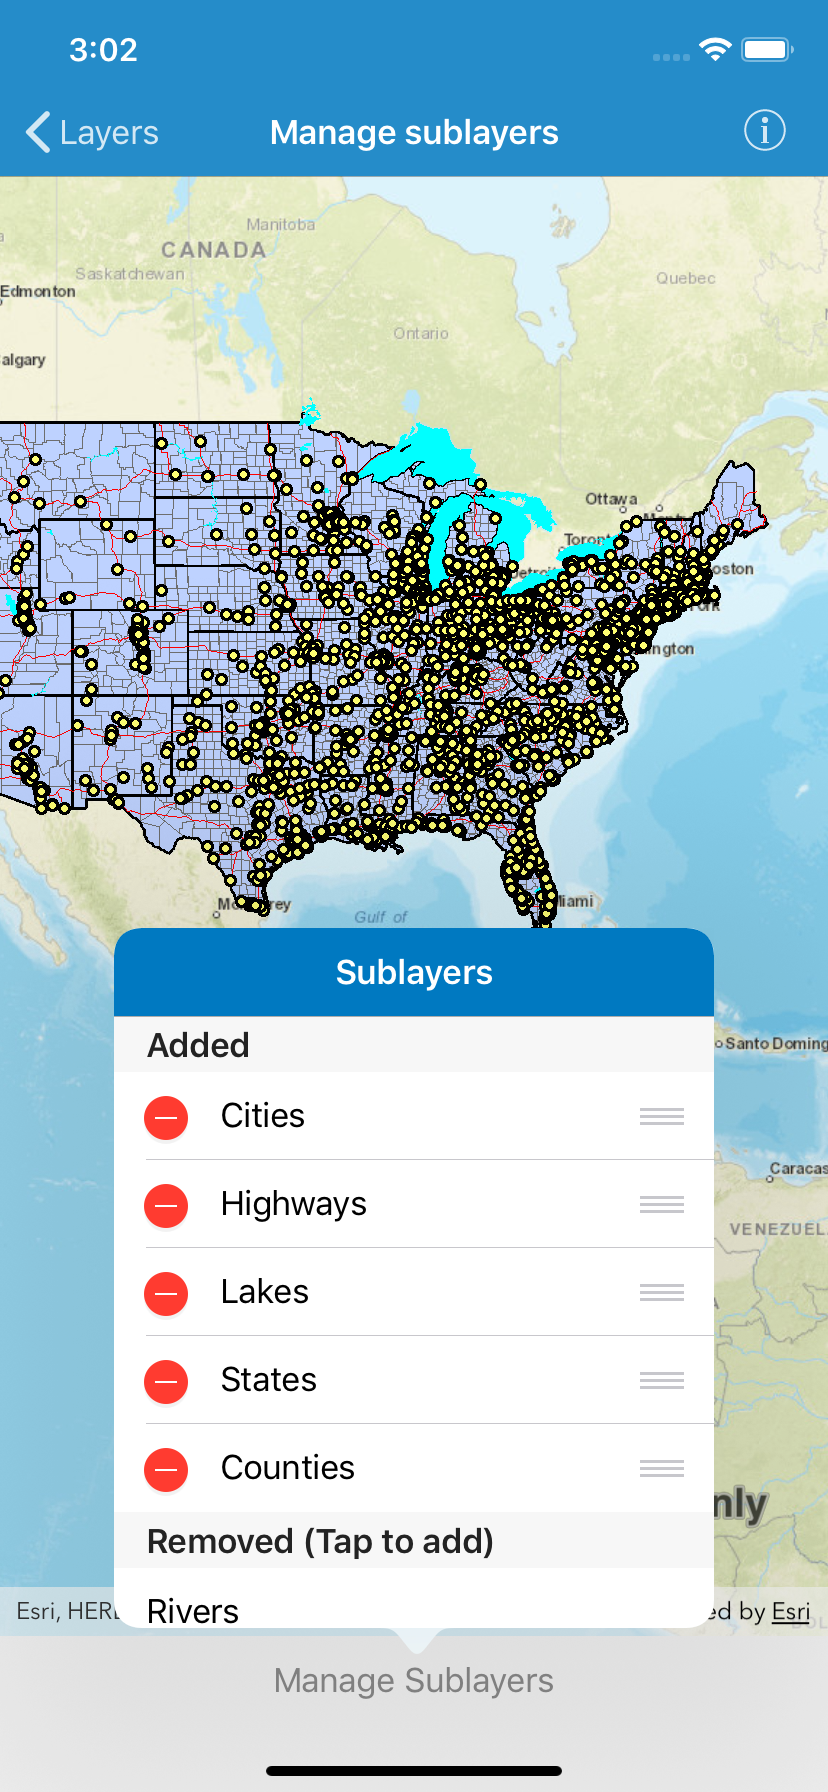
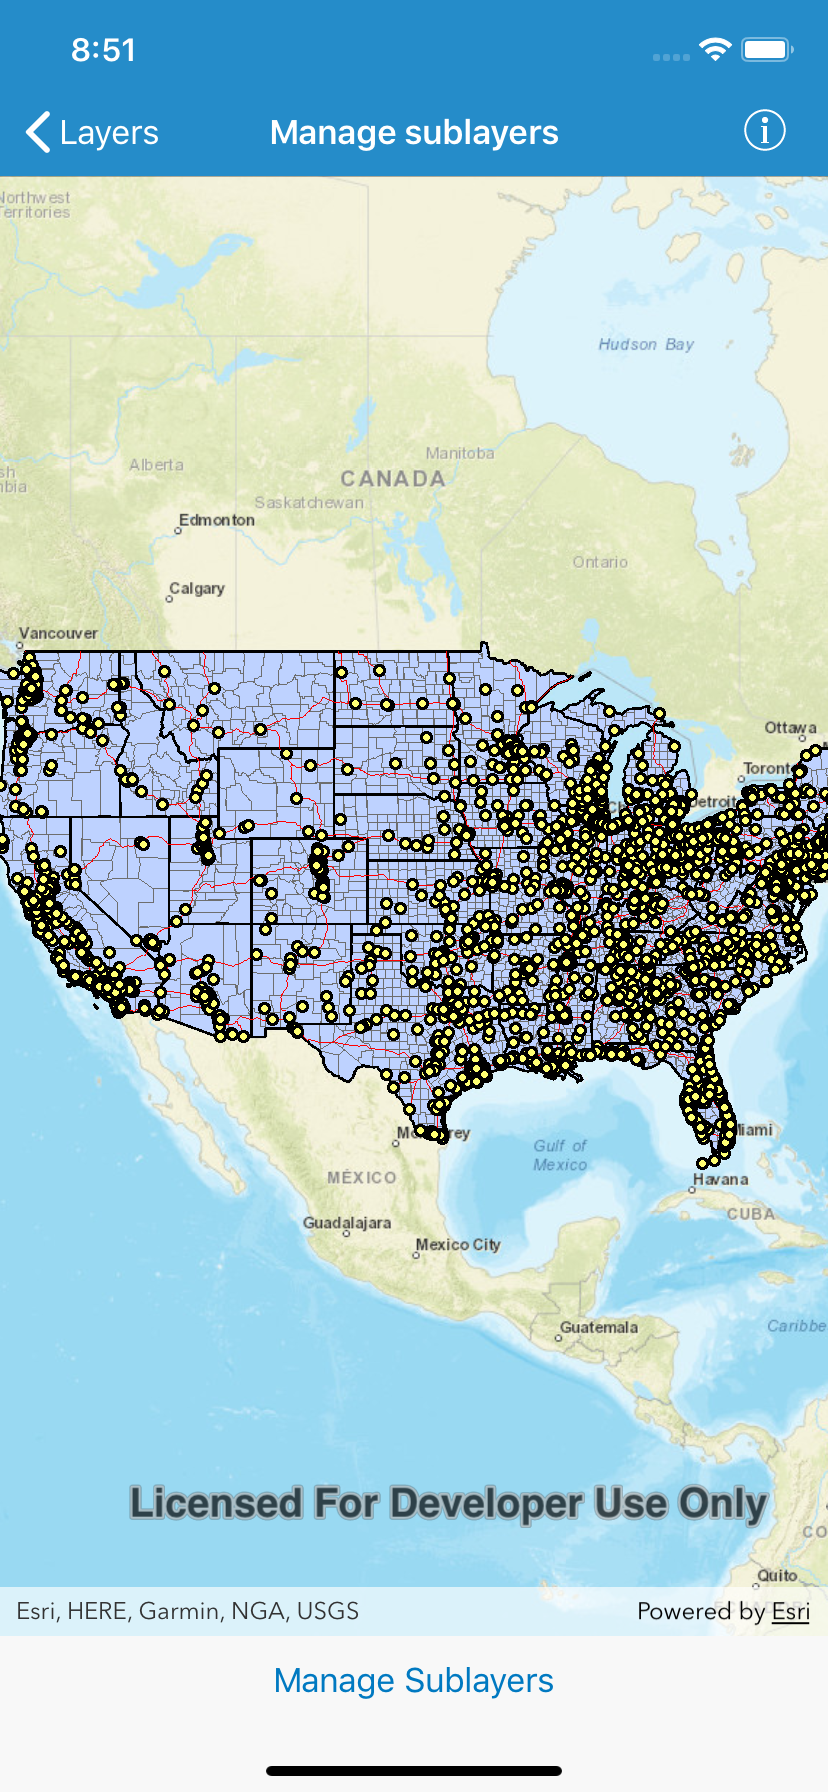
Updates Manage sublayer settings to use form sheet and grouped style Updates Managed sublayers README with new images and preferred section title and order

diff --git a/arcgis-ios-sdk-samples/Layers/Manage sublayers/README.md b/arcgis-ios-sdk-samples/Layers/Manage sublayers/README.md
@@ -2,11 +2,12 @@
 
 This sample demonstrates how to add table sublayer source as map image sublayers; how to remove a sublayer and rearrange existing sublayers in a map image layer.
 
-## How the app works
+![](image1.png)
+![](image2.png)
+
+## How to use the sample
 
 Tap on the `Manage Sublayers` button in the bottom toolbar to get a list of sublayers present in the map image layer and also a list of sublayers you can add to it. You can tap on one of the removed sublayers to add it to the map image layer. You can tap on the button on the left to delete a sublayer and hold and move a cell to reorder the sublayers.
-
-![](image1.png)
 
 ## How it works
 
